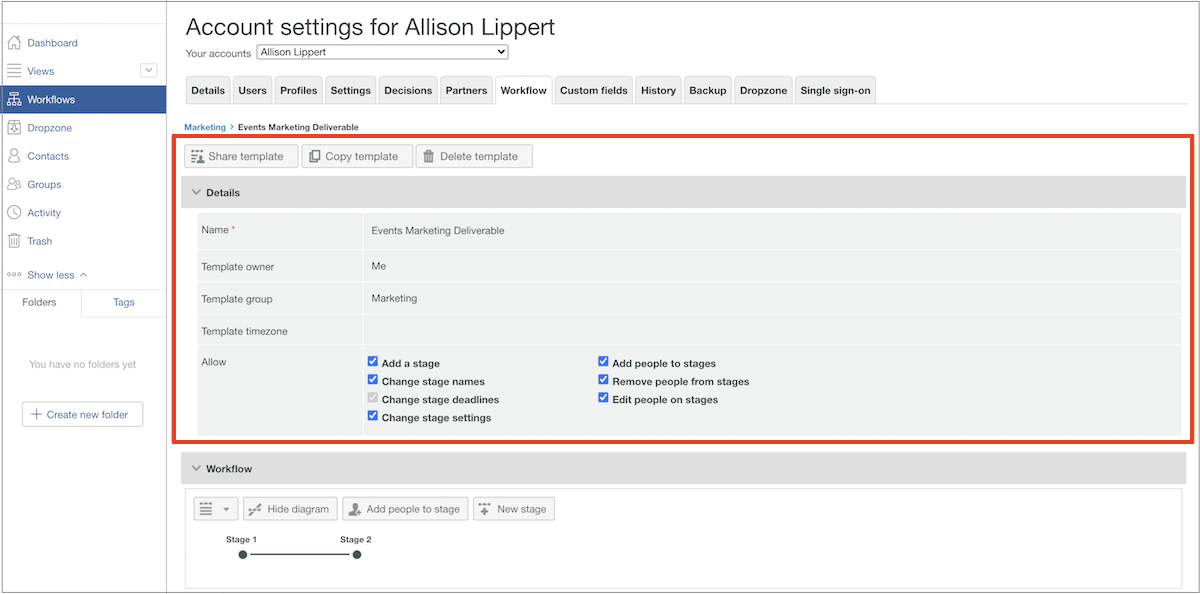
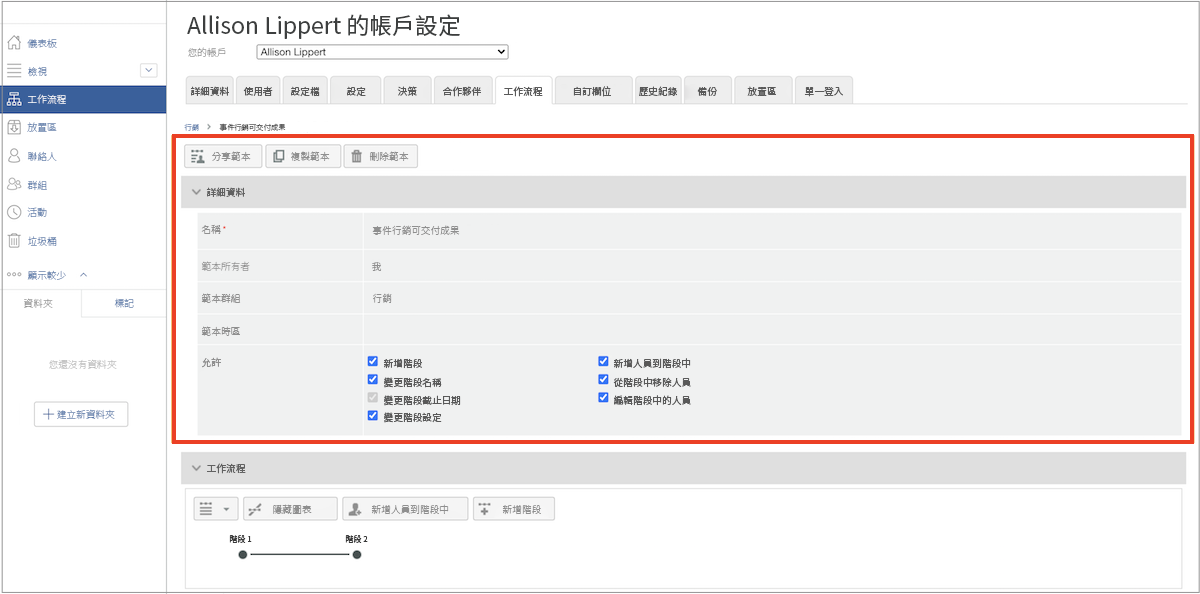
Updated by task 'AUTO_HANDOFF_1723205614724'  Changes for core/source commit https://git.corp.adobe.com/AdobeDocs/workfront-learn.en/commit/f2256fcc19d64247c79126c39acc202b4aff6f96

diff --git a/help/workfront-proof/administration-and-setup/edit-an-automated-workflow-template.md b/help/workfront-proof/administration-and-setup/edit-an-automated-workflow-template.md
@@ -13,9 +13,9 @@ jira: KT-8831
 exl-id: 03841b1f-741d-4427-ae84-ddb9f890fc95
 doc-type: video
 source-git-commit: 55edb8b797583f93f405c9c6b69422b818c90cdc
-workflow-type: tm+mt
+workflow-type: ht
 source-wordcount: '572'
-ht-degree: 61%
+ht-degree: 100%
 
 ---
 
@@ -23,18 +23,18 @@ ht-degree: 61%
 
 隨著校訂檢閱與核准流程有所改進或發生組織變更，自動化工作流程範本應更新並反映使用 Workfront 之團隊目前的運作。
 
-讓範本保持最新可確保稽核和核准流程的一致性，此外也節省了上傳校樣的時間，因為他們不必持續調整工作流程。
+保持範本最新狀態可確保檢閱與核准流程的一致性，也能節省上傳校訂的時間，因為不需要持續調整工作流程。
 
 1. 從 [!DNL Workfront] 的&#x200B;**[!UICONTROL 主選單]**&#x200B;選取「**[!UICONTROL 校訂]**」。
 1. 在那裡的左側面板選單中選取「**[!UICONTROL 工作流程]**」。
 1. 按一下範本名稱最右邊的三圓點選單，並選取「**[!UICONTROL 檢視範本詳細資料]**」。
 
-共用、複製和刪除範本的選項位在每個範本的範本詳細資料視窗的頂端。刪除範本不會影響已套用該範本的進行中校訂，但表示範本已無法再使用。
+共用、複製和刪除範本的選項位在每個範本的範本詳細資料視窗的頂端。刪除範本不會影響已套用該範本的進行中校訂，但是該範本將無法再使用。
 
 ![範本詳細資料視窗](assets/proof-system-setup-edit-templates-details-area.png)
 
 
-按一下&quot;[!UICONTROL 詳細資料]&quot;左側的箭頭，可展開或收合區段。
+按一下「[!UICONTROL 詳細資料]」一詞左側的箭頭，可展開或摺疊該部分。
 
 ## 變更階段和收件者
 
@@ -42,18 +42,18 @@ ht-degree: 61%
 
 自動化工作流程的每個階段均有專屬區段，可以獨立修改截止期限、隱私權、校訂收件者和其他資訊。
 
-此影片示範您可以在[!UICONTROL 工作流程]區域中進行的一些變更。 請參閱此影片下的專案符號清單，其中會檢閱這些設定。
+這段影片會展示您在「[!UICONTROL 工作流程]」區域可做的一些變更。參閱本影片下方的項目符號清單來檢視這些設定。
 
 >[!VIDEO](https://video.tv.adobe.com/v/335131/?quality=12&learn=on)
 
 回顧以下這些在「[!UICONTROL 工作流程]」區段可以進行的校訂範本變更：
 
-* 按一下階段名稱欄位或截止日期欄位以更新該資訊。
-* 按一下截止日期左側的箭頭，以鎖定階段、決定階段何時啟動或只需要一個決定。
+* 按一下進入「階段名稱」欄位或「截止期限」欄位來更新該資訊。
+* 按一下截止期限左邊的箭頭來鎖定階段、決定要啟動哪個階段，或是只需要一個決定。
 * 在收件者清單中，按一下進入「[!UICONTROL 角色]」或者「[!UICONTROL 電子郵件提示]」欄位來選擇另一個選項。
-* 前往收件者名稱最右邊的3點功能表，從清單中刪除收件者，讓他們成為該工作流程階段的主要決策者，或編輯校訂角色和電子郵件警報資訊。
-* 您有兩個選項可以將收件者新增至清單。
-   1. 在每個階段區段的右上角，移至[!UICONTROL 更多]功能表並選取[!UICONTROL 新增人員至階段]。 開啟[!UICONTROL 將人員新增至階段]視窗後，請按一下要將人員新增至哪個階段。 接著在收件者清單中輸入他們的名稱或電子郵件地址，並指派校訂角色和電子郵件警報。完成後，請按一下[!UICONTROL 新增人員]按鈕。
+* 使用收件者名稱最右邊的三圓點選單，可刪除清單中的收件者、讓他們成為該工作流程階段的主要決策者，或是編輯校訂角色和電子郵件警報資訊。
+* 您有兩個新增收件者至清單的選項。
+   1. 在每個階段區段的右上角，前往「[!UICONTROL 更多]」選單並選取「[!UICONTROL 新增人員至階段]」。您開啟「[!UICONTROL 新增人員至階段]」視窗後，按一下想要新增人員的階段。接著在收件者清單中輸入他們的名稱或電子郵件地址，並指派校訂角色和電子郵件警報。執行完成時按一下「[!UICONTROL 新增人員]」按鈕。
    1. 在「[!UICONTROL 工作流程]」區域的頂端，選取「[!UICONTROL 新增人員至階段]」。
 
 ## 範本共用
